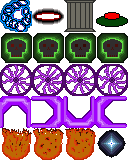
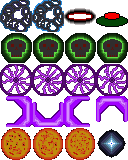
Chain is awesome

diff --git a/MagicGladiators/MagicGladiators/Components/Composites/Projectile.cs b/MagicGladiators/MagicGladiators/Components/Composites/Projectile.cs
@@ -142,7 +142,7 @@ namespace MagicGladiators
             animator.CreateAnimation("HomingMissile", new Animation(1, 128, 3, 32, 32, 10, Vector2.Zero, spriteRenderer.Sprite));
             animator.CreateAnimation("Drain", new Animation(4, 32, 0, 32, 32, 8, Vector2.Zero, spriteRenderer.Sprite));
             animator.CreateAnimation("DeathMeteor", new Animation(3, 128, 0, 32, 32, 5, Vector2.Zero, spriteRenderer.Sprite));
-            animator.CreateAnimation("Chain", new Animation(1, 0, 0, 32, 32, 6, Vector2.Zero, spriteRenderer.Sprite));
+            animator.CreateAnimation("Chain", new Animation(2, 0, 0, 32, 32, 6, Vector2.Zero, spriteRenderer.Sprite));
             animator.CreateAnimation("Boomerang", new Animation(4, 96, 0, 32, 32, 20, Vector2.Zero, spriteRenderer.Sprite));
             animator.CreateAnimation("GravityWell", new Animation(4, 64, 0, 32, 32, 7, Vector2.Zero, spriteRenderer.Sprite));
 
